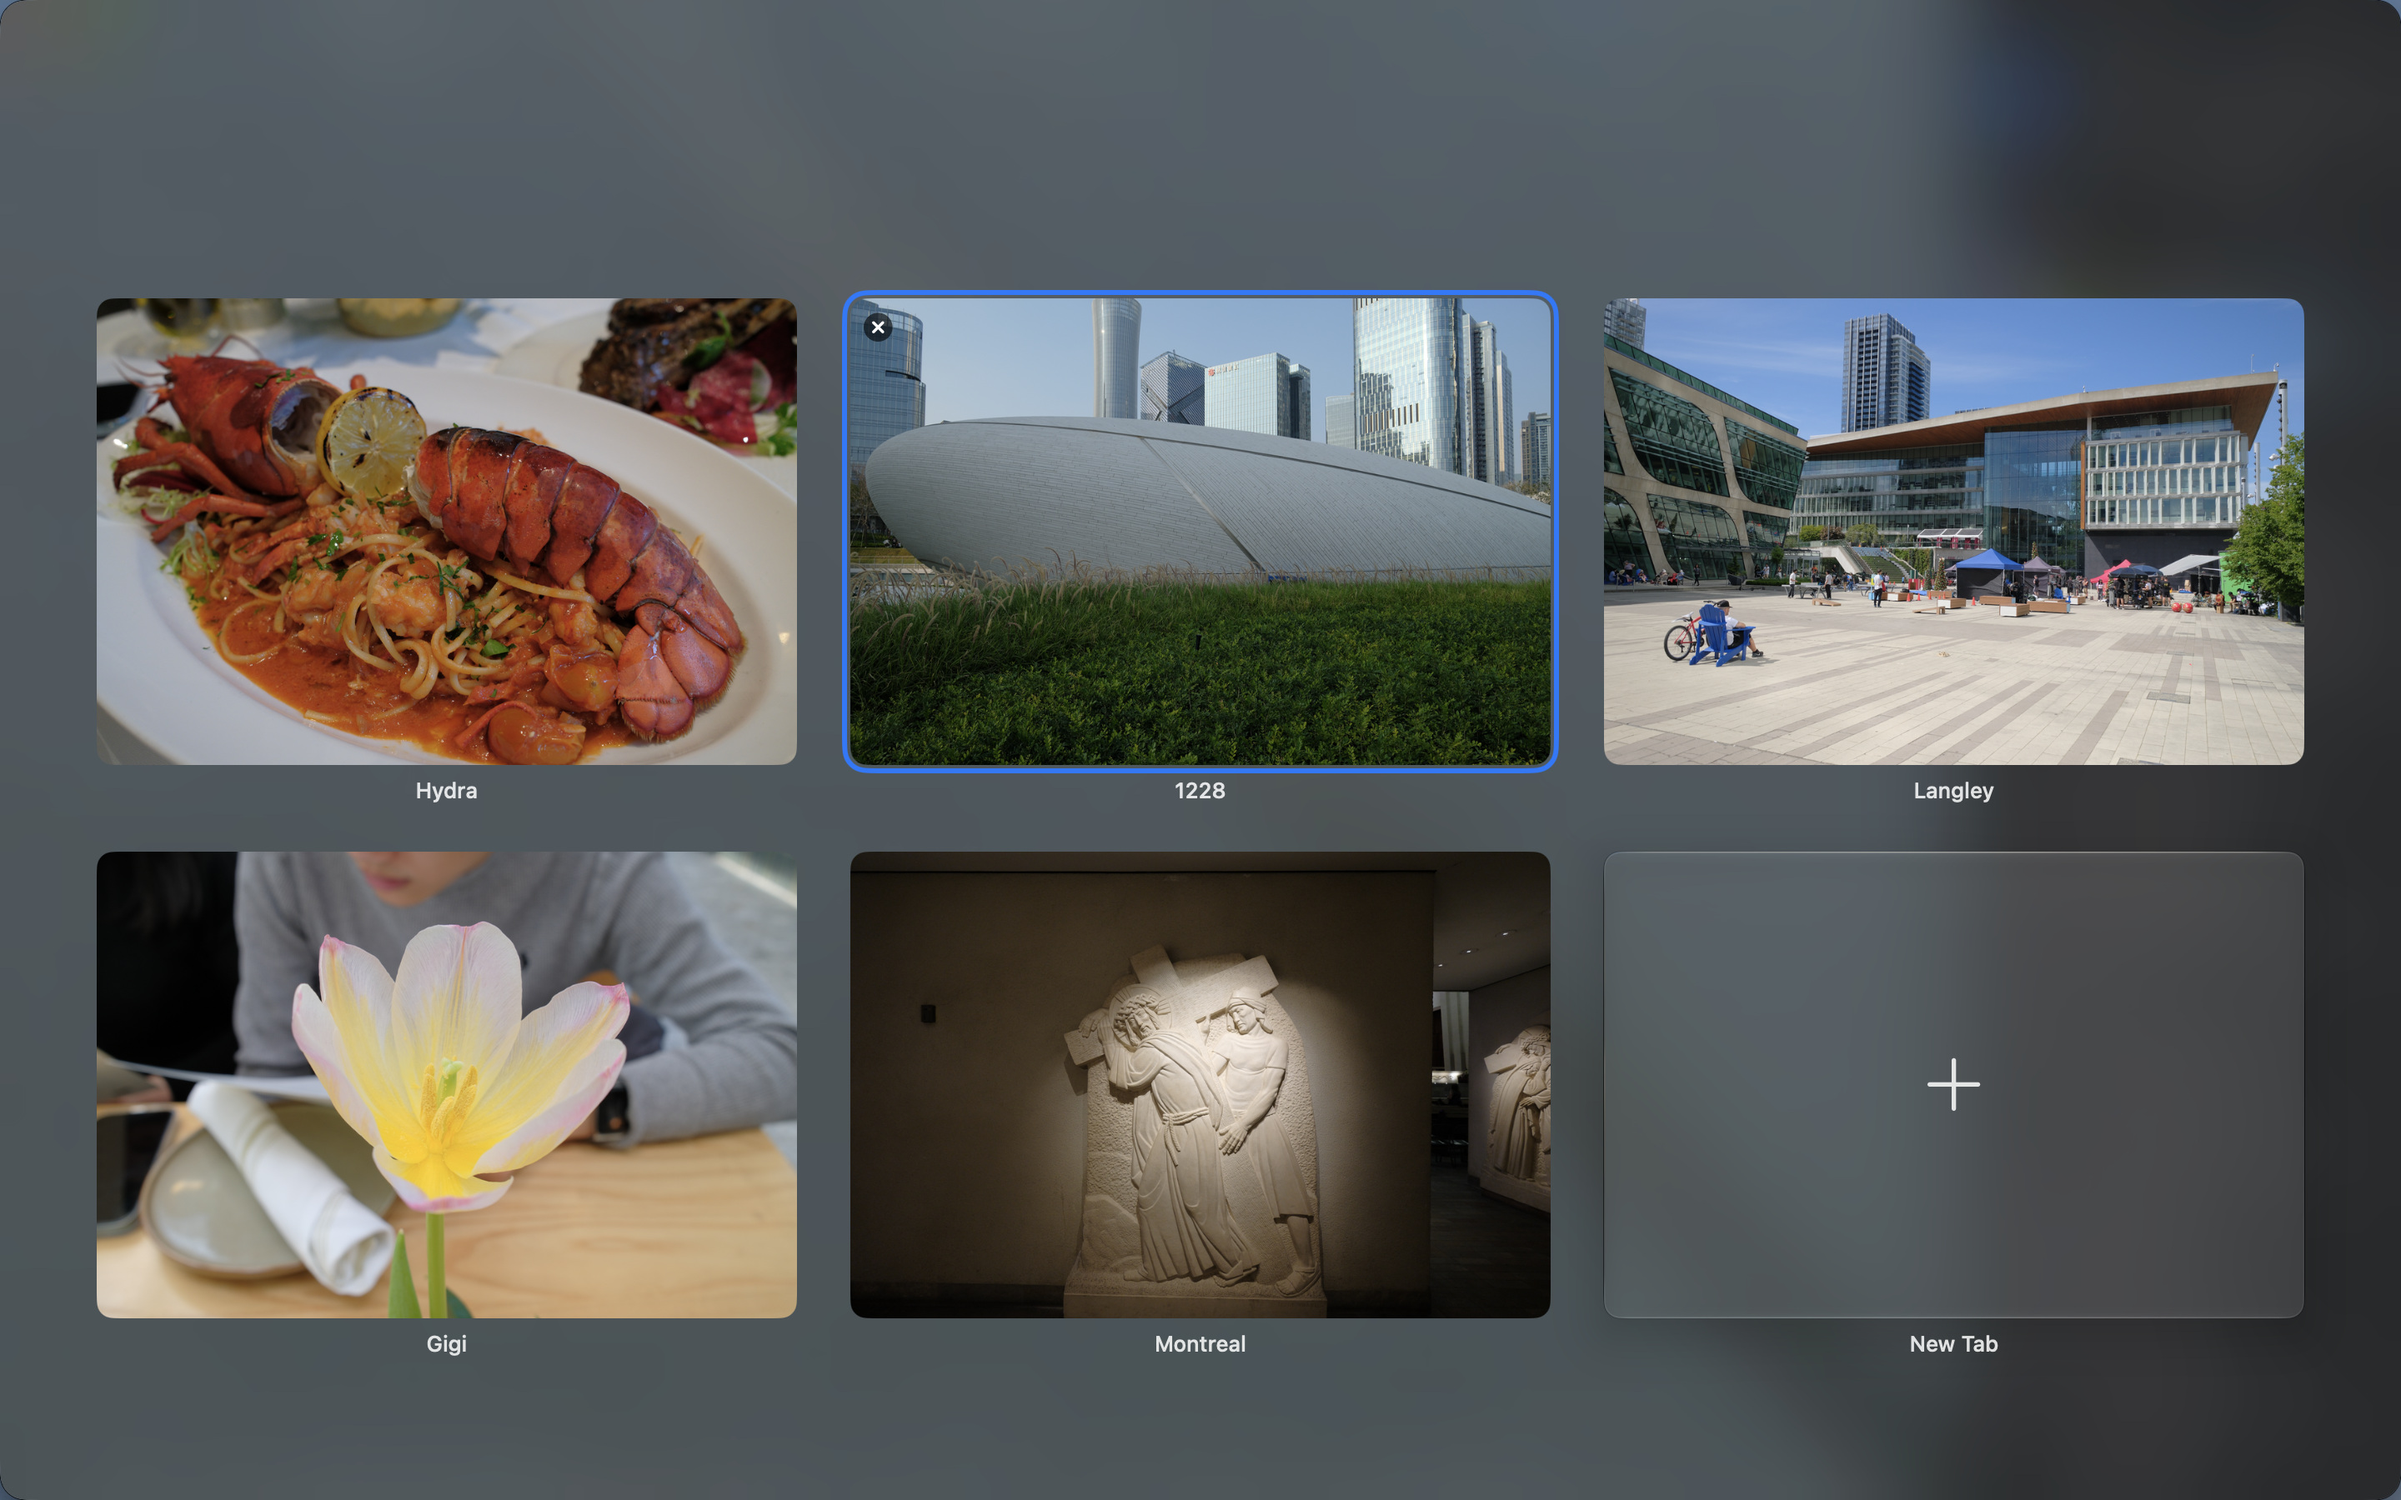
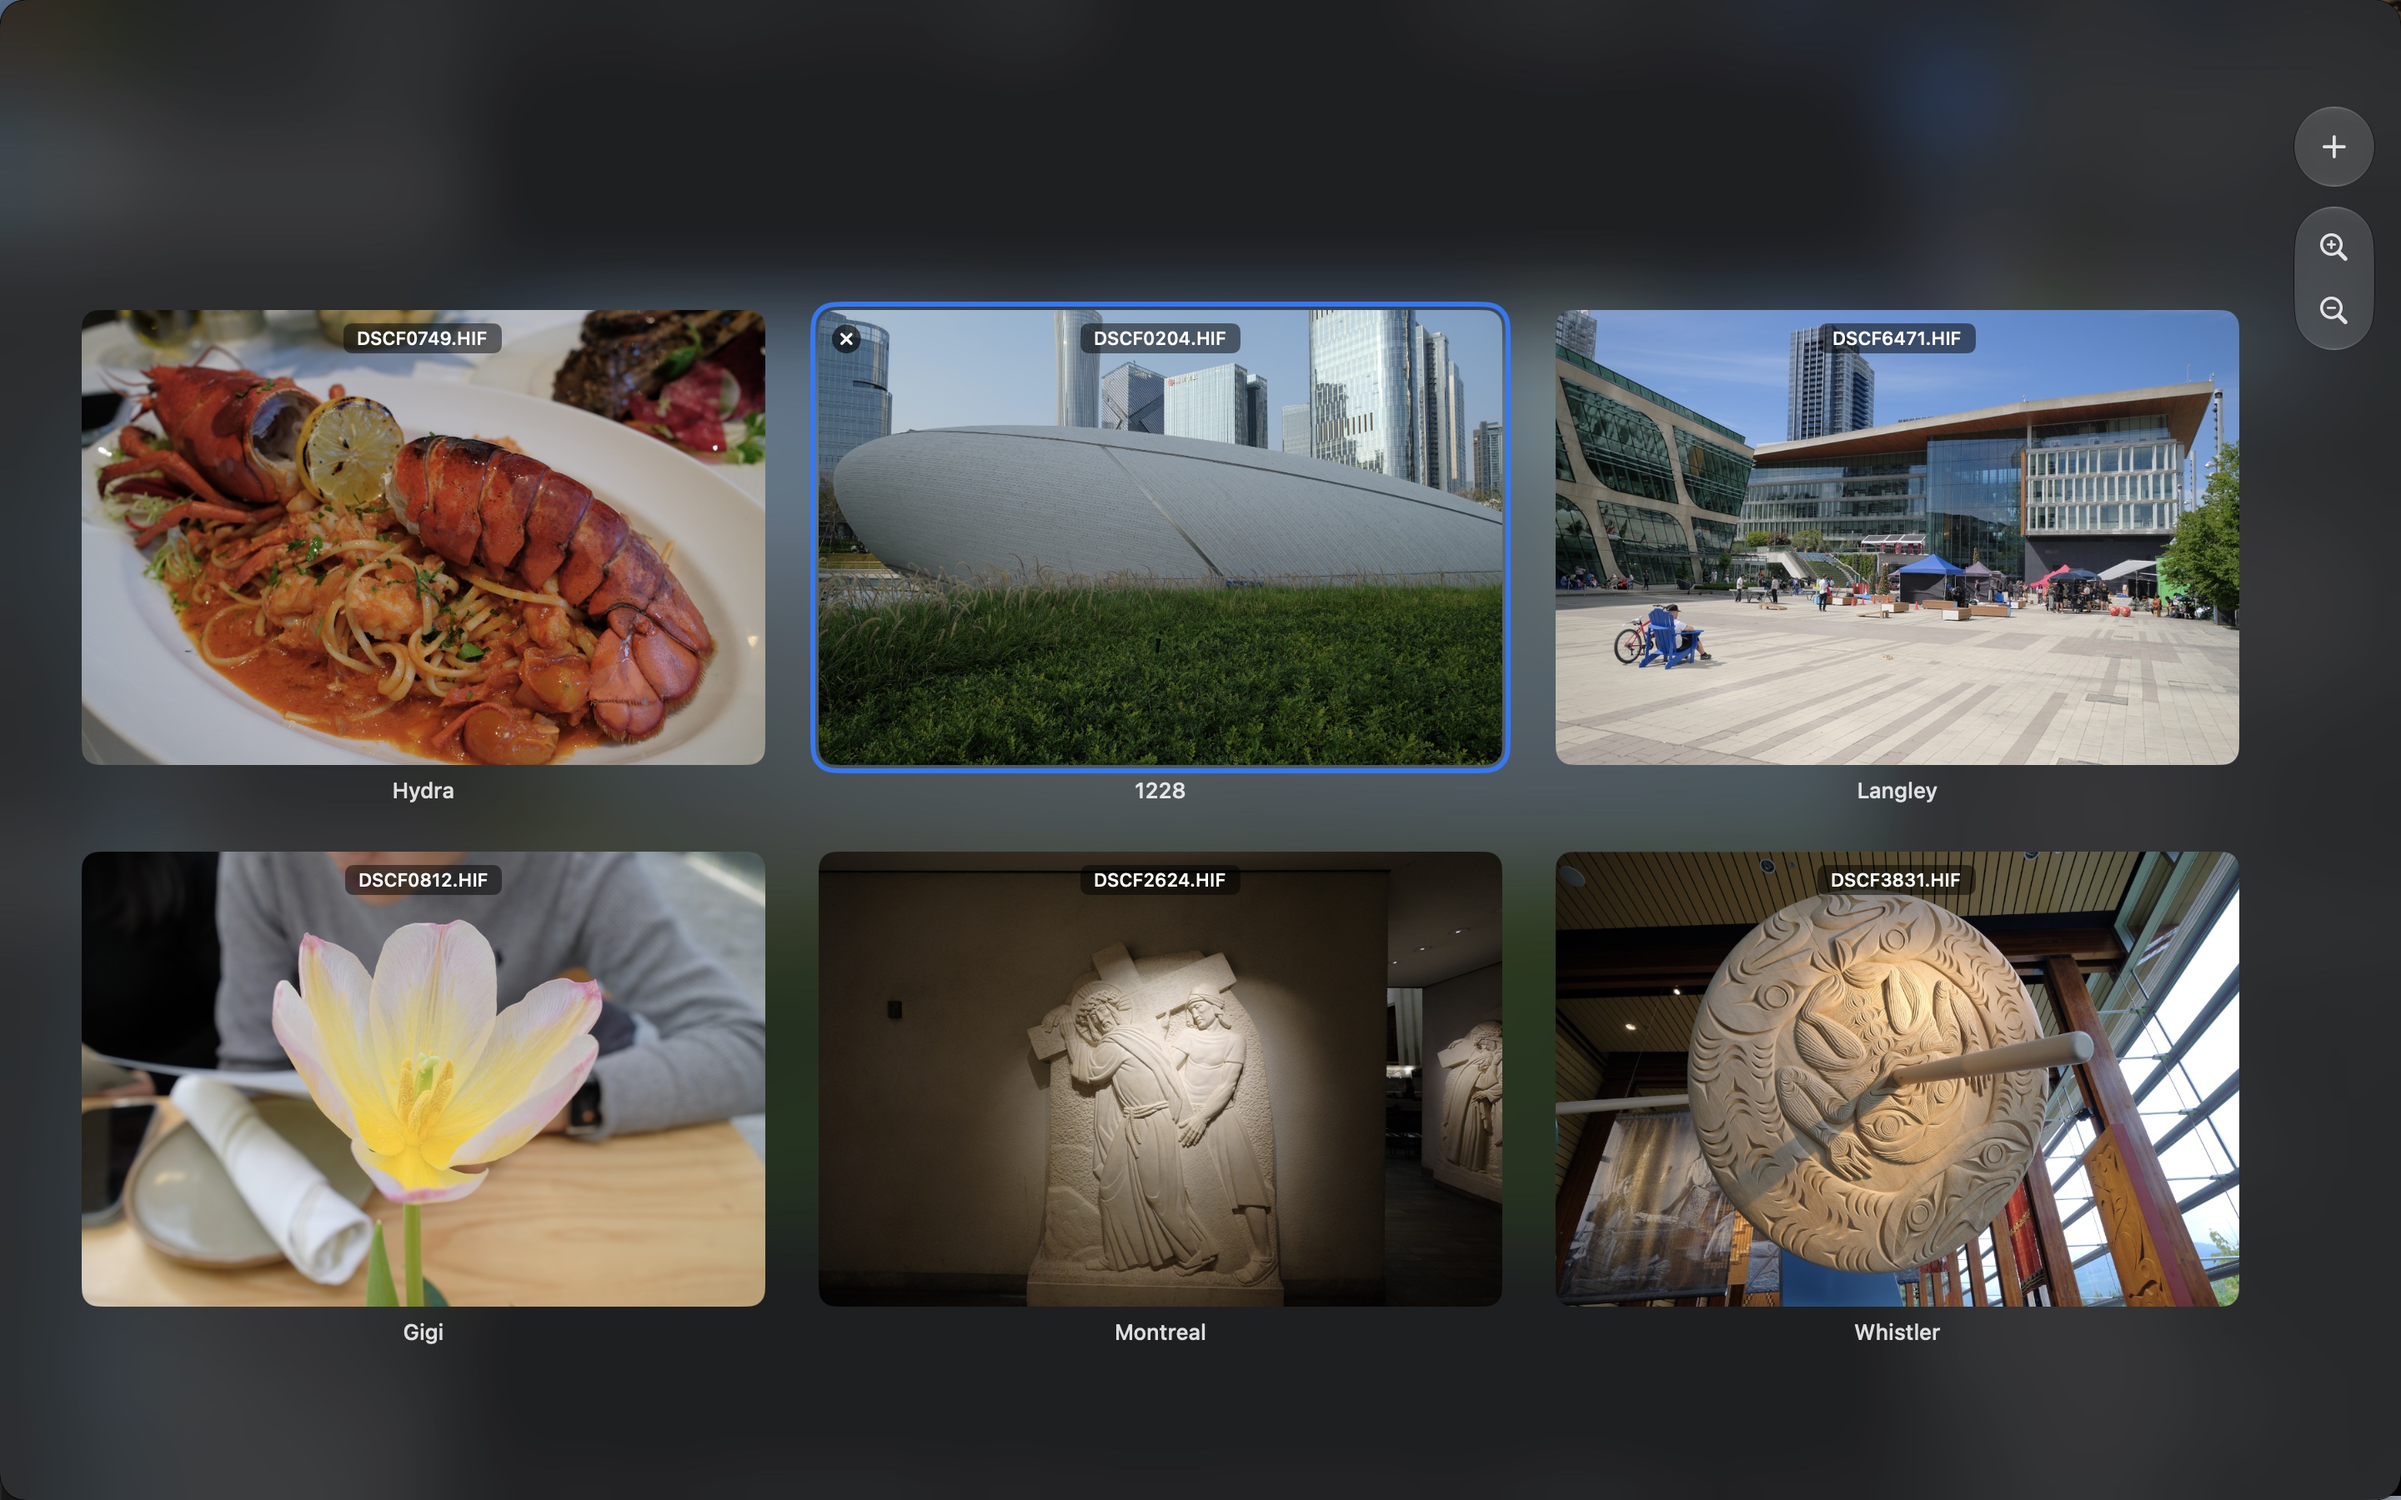
ApolloOne page: Tab Overview shows 5.1.0 (Albert msgs 37445 "We need to update the Tab overview screenshot on the web", 37451 one more folder for the empty space, 37457 Whistler as the 6th tab, 37465 "push"). New screenshot: 5.1.0 (6055)'s tab overview of six tabs at 1440x900 (Hydra, 1228, Langley, 

diff --git a/apolloone.html b/apolloone.html
@@ -63,10 +63,10 @@
 <section class="feature feature-stacked">
     <div class="feature-text">
         <h2>Tab Overview</h2>
-        <p>In Liquid Glass, the <strong>Tabs</strong> button lays out every tab of the window with the photo it is showing. Click one to switch to it, close the ones you are done with, or open a new one. A video shows the frame where you paused it, and a split view shows both of its photos.</p>
+        <p>In Liquid Glass, the <strong>Tabs</strong> button fills the window with every tab, each with its photo, edits and HDR included, and its file name. Click one to switch to it, or close the ones you are done with. The buttons on the right open a new tab and zoom the cards in or out.</p>
     </div>
     <div class="feature-image">
-        <img src="images/apolloone-tab-overview.jpg" alt="ApolloOne tab overview in Liquid Glass: five tabs side by side, each with the photo it is showing, and a New Tab card" loading="lazy">
+        <img src="images/apolloone-tab-overview.jpg?v=6055" alt="ApolloOne tab overview in Liquid Glass: six tabs, each with its photo and file name, and the new tab and zoom buttons down the right edge" loading="lazy">
     </div>
 </section>
 
